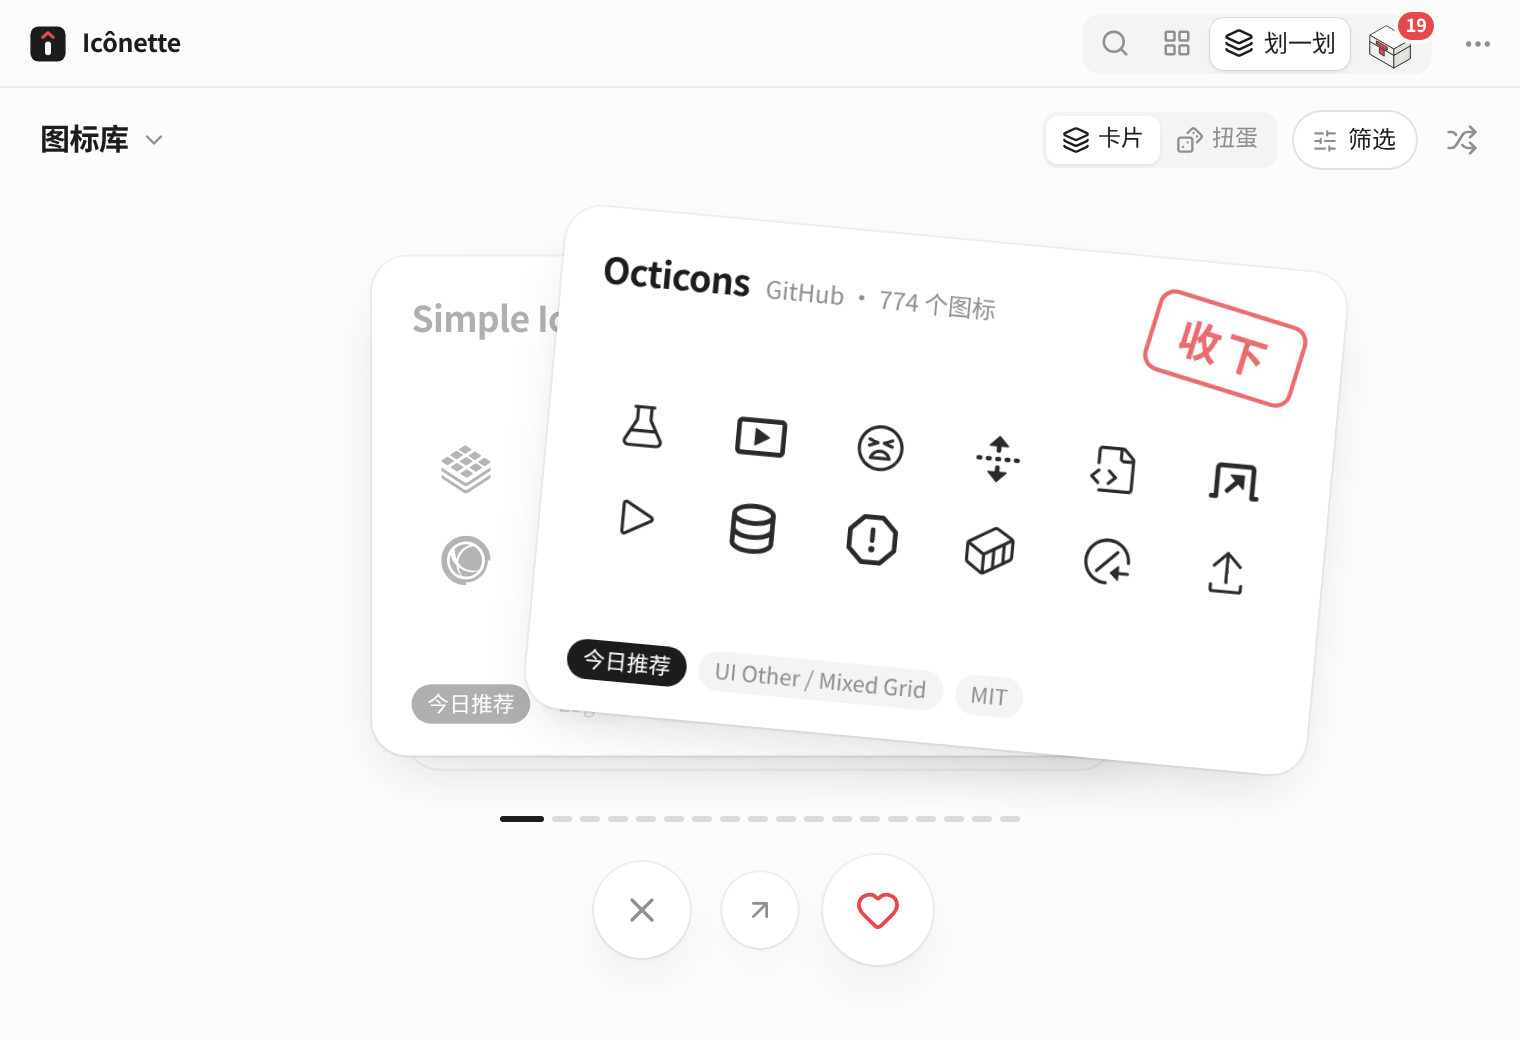
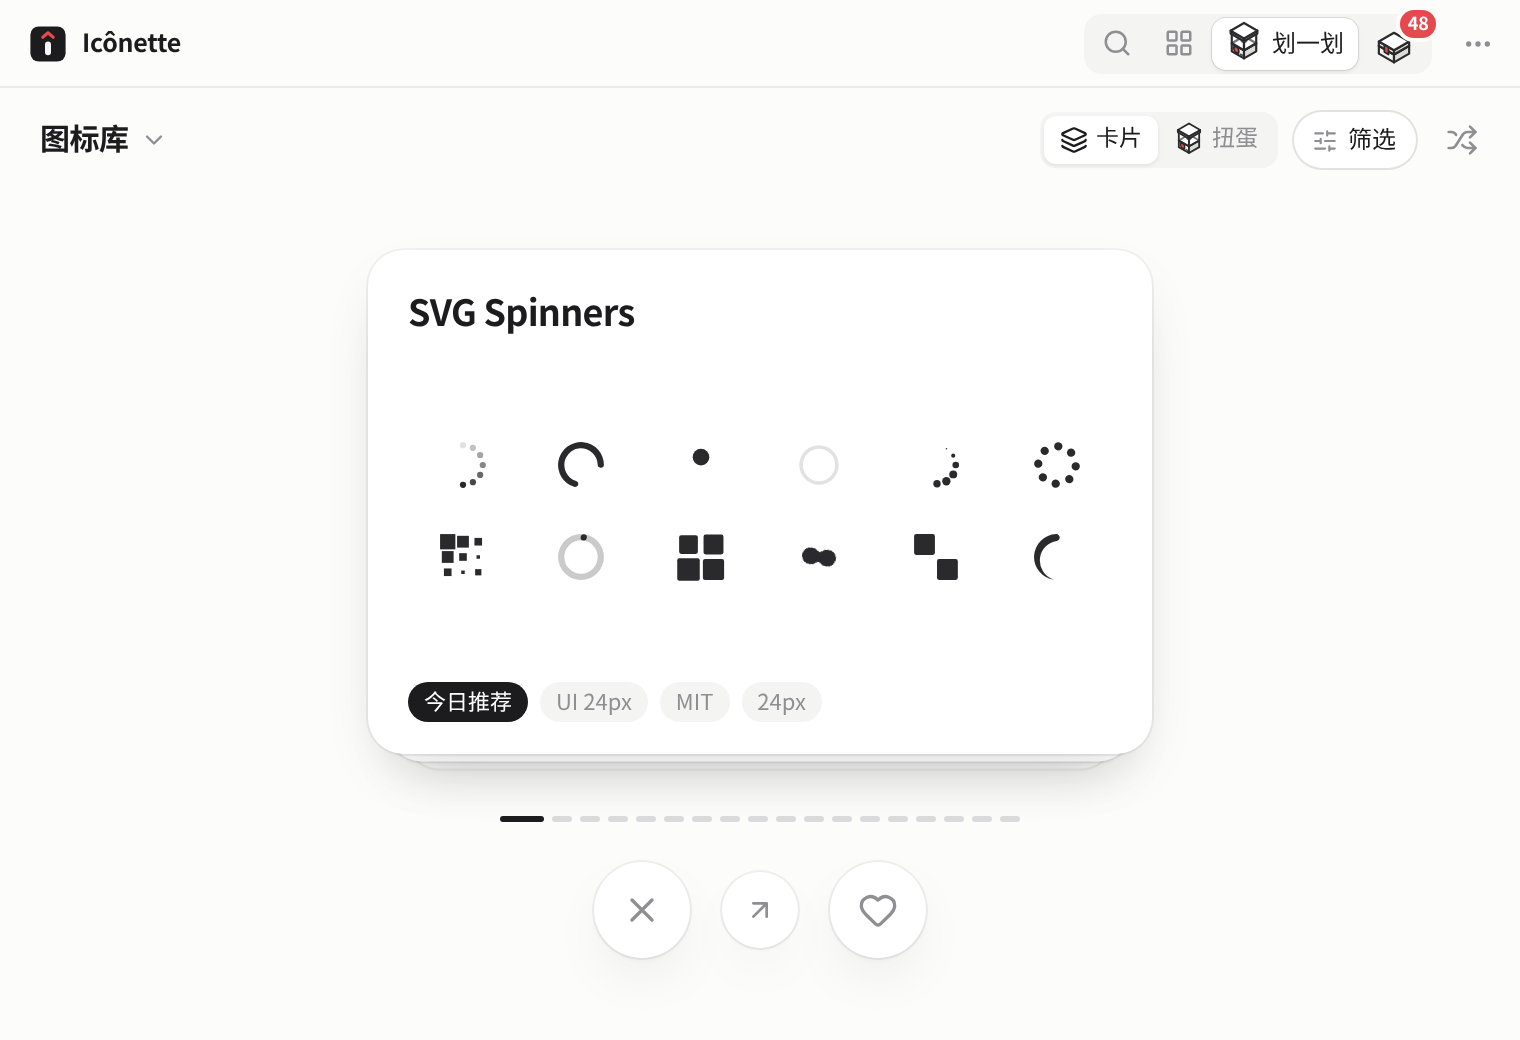
docs: v0.3.0 release notes, README text and new screenshots

diff --git a/.github/release-notes.md b/.github/release-notes.md
@@ -1,31 +1,30 @@
-Icônette v0.2.0：全新界面。标题栏只负责拖动和切换，搜索回到页面里，划一划多了扭蛋机，收藏变成一只会开盖的灵感宝箱。Windows 和 macOS（Intel + Apple Silicon）通用。
+Icônette v0.3.0：等距爆炸图风格的新扭蛋机和扭蛋收纳盒，首页换上浮岛搜索框、左下角坞和右下角迷你扭蛋机。Windows 和 macOS（Intel + Apple Silicon）通用。
 
 ## 下载
 
 | 平台 | 文件 |
 | --- | --- |
-| Windows 10 / 11（推荐） | `Iconette_0.2.0_x64-setup.exe`，装到当前用户，不需要管理员权限 |
-| Windows 企业部署 | `Iconette_0.2.0_x64_en-US.msi` |
-| macOS 10.15+ | `Iconette_0.2.0_universal.dmg` |
+| Windows 10 / 11（推荐） | `Iconette_0.3.0_x64-setup.exe`，装到当前用户，不需要管理员权限 |
+| Windows 企业部署 | `Iconette_0.3.0_x64_en-US.msi` |
+| macOS 10.15+ | `Iconette_0.3.0_universal.dmg` |
 
-macOS 暂未签名，第一次打开请右键 App → 打开，或执行 `xattr -cr /Applications/Iconette.app`。从 0.1.0 升级直接覆盖安装即可，收藏和设置都会保留。
+macOS 暂未签名，第一次打开请右键 App → 打开，或执行 `xattr -cr /Applications/Iconette.app`。从 0.1 / 0.2 升级直接覆盖安装即可，收藏和设置都会保留。
 
-## 新界面
+## 新变化
 
-- **标题栏**：左上角是 Logo 和「Icônette」字标（macOS 排在红绿灯右侧），中间大块空白可以拖动窗口；右侧是图标分段切换（找图标 / 资源 / 划一划）、等距小宝箱「收藏」入口（带数量角标）、⋯ 菜单和窗口按钮
-- **找图标首页**：缓慢漂移的图标墙（偶尔点亮一枚红色），实时统计的图标总数和图标集数量、热门词、键盘提示、最近复制、今日图标；系统开启「减少动态效果」时图标墙静止
-- **页内搜索**：首页居中大搜索，一输入就平滑吸顶成紧凑搜索条，结果按图标集分组；<kbd>Ctrl</kbd>/<kbd>⌘</kbd> + <kbd>K</kbd> 随处聚焦，方向键选择、回车复制，<kbd>Tab</kbd> 切换范围
-- **范围胶囊**：取代原来那一排图标集 chips。弹层里可以勾选、拖动排序已固定的图标集，搜索全部图标集并一键固定，底部是醒目的「添加图标集」
-- **样式工具条**：结果头部右侧的 线性 / 填充 / 双色（按图标名近似筛选）、颜色、尺寸
-- **资源**：图标库 / 组件库分段 + 页内搜索（高亮匹配字）、分类下划线 tab、热门 / 名称排序
-- **划一划**：牌堆名做成下拉标题（图标库 / 组件 / 组件库 / 我的宝箱）、卡片下方的点阵进度、一个带角标的「筛选」胶囊、卡片 / 扭蛋视图切换
-- **卡片手感**：拖动带旋转和回弹、「收下 / 跳过」印章、连击 ×N 和粒子，收下的东西会飞进标题栏的宝箱
-- **图标扭蛋机**：拖动摇杆转一圈（或点摇杆 / 按空格），齿轮联动、胶囊掉落开壳，亮出一个图标集、组件或组件库；收下就沿滑道滚进宝箱，放回就弹回机器
-- **灵感宝箱**：任何地方点 ♥，图标沿弧线飞进标题栏的小宝箱，盖子一弹、角标跳数；打开收藏页时大宝箱开盖发光，收藏的图标、图标集、组件库依次升起落位（分组、最近复制都还在）
-- **速取窗口**：换上 Logo 和新的圆角搜索框
+- **标题栏图标**：「划一划」是一台迷你扭蛋机（红色旋钮），「收藏」是一只扭蛋收纳盒（红色搭扣，带数量角标），粗描边等距小模型，浅色 / 深色各一套
+- **首页**：浮岛胶囊搜索框（聚焦时淡红光环），热门词描边更轻；左下角坞放「最近复制」和「今日图标」，默认展开今日图标，点 × 收起，下次打开保持
+- **迷你扭蛋机**：首页右下角一台小机器，点它直接进入划一划 · 扭蛋，小机器放大移动到大机器的位置，其余内容随后淡入
+- **图标扭蛋机**：换成等距爆炸图风格的整机——彩色胶囊装在玻璃仓里，前面板有三颗指示灯，红色摇杆和齿轮组联动；每次启动后第一次进入时整机沿等距轴拆开、停 1 秒、再装回去
+- **扭一扭**：胶囊掉进出口托盘，弹起、开壳变成卡片；收下就滚进旁边的收纳盒，放回就飞回机器
+- **扭蛋收纳盒**：收藏页的大盒子按层存放图标库和组件库，每层托盘 6 枚胶囊，对应一页 6 张卡片；打开时搭扣翻起、盒盖移开、胶囊飞出变成卡片，翻层时托盘被提起叠到一旁；离开收藏页时盒子会先合上。图标（含分组）和最近复制仍是图标网格
+- **收藏动画**：任何地方点 ♥，图标先变成一枚红色胶囊，再沿弧线飞进标题栏的收纳盒
+- **结果页**：底部新增一行键位提示（方向键选择、回车复制、Tab 切换范围、F 收藏、Esc 清空、Ctrl / ⌘ + K 聚焦）
+- **更简洁**：标题、卡片和角落去掉了多余的说明文字，只留名字
+- 划一划记住上次的卡片 / 扭蛋模式；系统开启「减少动态效果」时跳过过渡和拆装动画，直接显示结果
 
 ## 仍然支持
 
-8 种复制格式（SVG、PNG、Vue、React、UnoCSS 等）、中英文搜索、其他风格、拖出 SVG、组件库实时示例、Alt / ⌥ + Space 速取窗口、系统托盘、开机启动。
+8 种复制格式（SVG、PNG、Vue、React、UnoCSS 等）、中英文搜索、范围弹层、其他风格、拖出 SVG、组件库实时示例、划一划卡片模式、收藏分组、Alt / ⌥ + Space 速取窗口、系统托盘、开机启动。
 
 基于 [antfu/icones](https://github.com/antfu/icones)，图标数据来自 [Iconify](https://iconify.design)。
